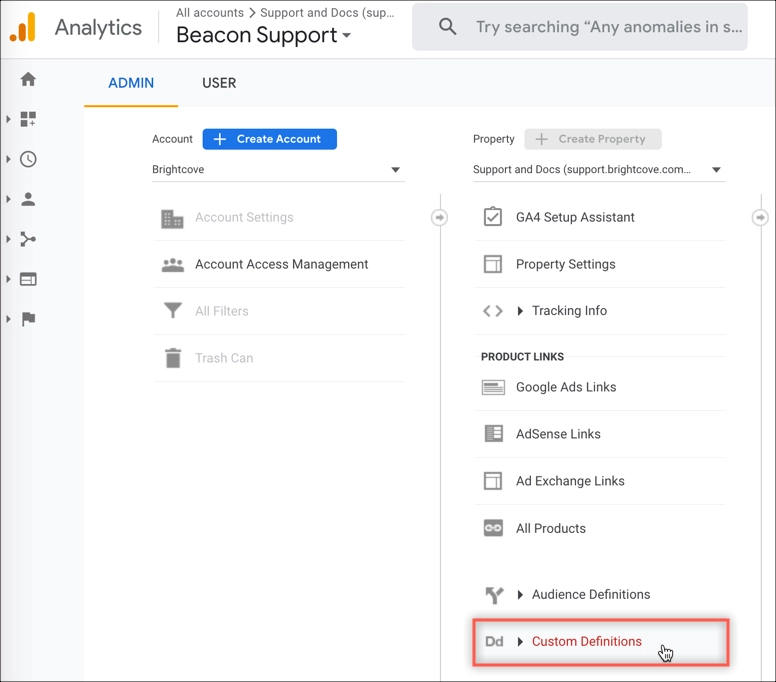
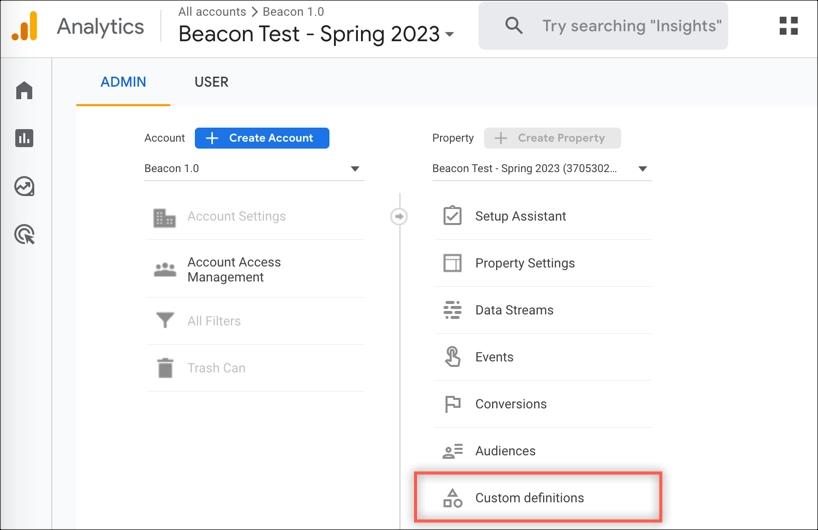
ga4 dimensions and metrics

diff --git a/_site/test-pages/viewing-analytics-data-google.html b/_site/test-pages/viewing-analytics-data-google.html
@@ -2058,11 +2058,11 @@
   </section> -->
 
   <section class="bcls-section">
-    <h2 id="Viewing_dimensions">Viewing dimensions</h2>
+    <h2 id="Viewing_dimensions_and_metrics">Viewing dimensions and metrics</h2>
     <aside class="bcls-aside bcls-aside--tip">If you are not familiar with analytics dimensions here is a VERY simplified explanation:
       <ul>
         <li>Dimensions are attributes of your data. For example, the city where views are coming from is a dimension. A single dimension can contain many values, like the names of all the cities from which you have views.</li>
-        <!-- <li>Metrics are quantitative measurements. So the number of sessions from a particular city would be a metric.</li> -->
+        <li>Metrics are quantitative measurements. So the number of sessions from a particular city would be a metric.</li>
       </ul>
     </aside>
     <p>You can view dimensions associated with your Brightcove SDKs apps within Google Analytics.</p>
@@ -2089,26 +2089,26 @@
           <img class="bcls-image" src="/assets/images/s-analytics-img/third-party/looker-studio/admin-button.webp" alt="Click admin" />
         </figure>
       </li>
-      <li>Click <strong>Custom Definitions</strong>.
+      <li>Click <strong>Custom definitions</strong>.
         <figure class="bcls-figure">
           <img class="bcls-image" src="/assets/images/s-analytics-img/third-party/looker-studio/custom-dimensions.webp" alt="Click custom definitions" />
         </figure>
       </li>
-      <li>When you click <strong>Custom Definitions</strong> you will see links for <strong>Custom Dimensions</strong> and <strong>Custom Metrics</strong>.
+      <!-- <li>When you click <strong>Custom Definitions</strong> you will see links for <strong>Custom Dimensions</strong> and <strong>Custom Metrics</strong>.
         <figure class="bcls-figure">
           <img class="bcls-image" src="/assets/images/s-analytics-img/third-party/looker-studio/dimensions-list.webp" alt="list custom definitions" />
         </figure>
-      </li>
-      <li>Click the <strong>Custom Dimensions</strong> link to see the dimensions for this app. Dimensions change per app.
-        <figure class="bcls-figure">
-          <img class="bcls-image" src="/assets/images/s-analytics-img/third-party/looker-studio/dimensions-table.webp" alt="list custom definitions" />
-        </figure>
-      </li>
-      <!-- <li>Click the <strong>Custom Metrics</strong> link to see the single metic, <strong>Time Watched</strong>. This is the only custom metric for Brightcove SDKs apps.
-        <figure class="bcls-figure">
-          <img class="bcls-image" src="/assets/images/s-analytics-img/third-party/looker-studio/metrics-table.webp" alt="list custom definitions" />
-        </figure>
       </li> -->
+      <li>Click the <strong>Custom dimensions</strong> tab to see the dimensions for this app. Dimensions change per app.
+        <figure class="bcls-figure">
+          <img class="bcls-image" src="/assets/images/s-analytics-img/third-party/looker-studio/custom-dimensions-tab.webp" alt="list custom dimensions" />
+        </figure>
+      </li>
+      <li>Click the <strong>Custom metrics</strong> tab to see the single metic, <strong>Stars</strong>. This is the only custom metric for Brightcove SDKs apps.
+        <figure class="bcls-figure">
+          <img class="bcls-image" src="/assets/images/s-analytics-img/third-party/looker-studio/custom-metrics-tab.webp" alt="list custom metrics" />
+        </figure>
+      </li>
     </ol>
   </section>
 
